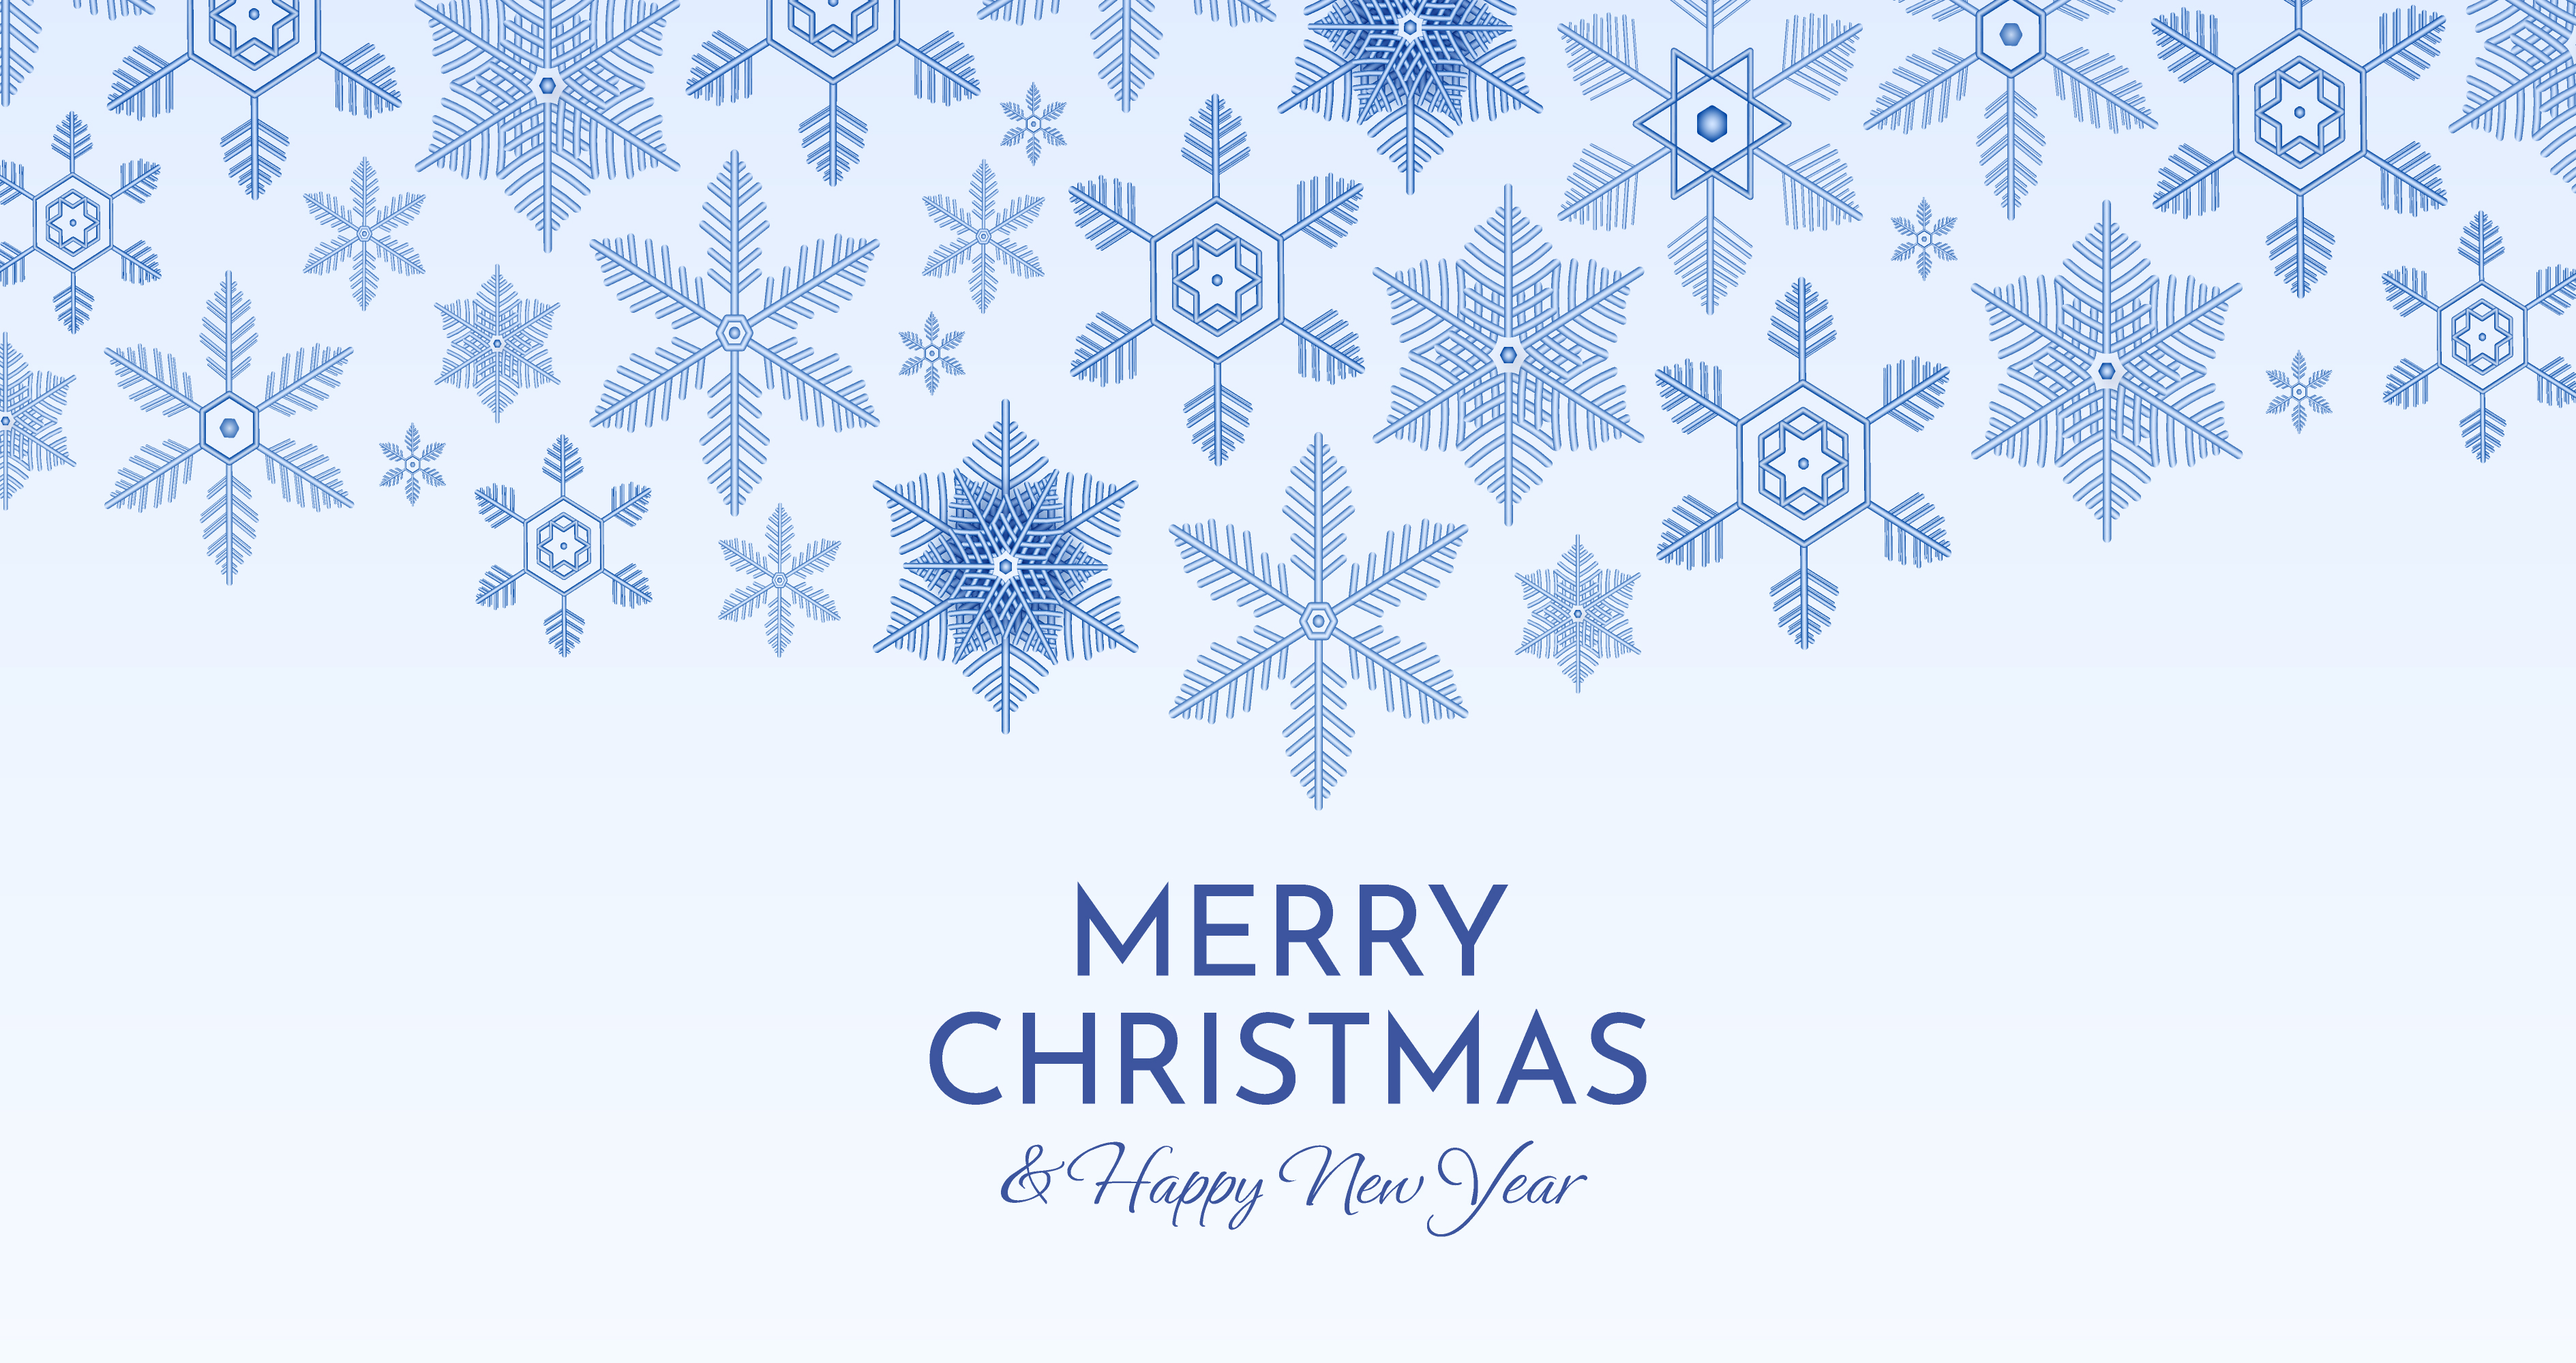
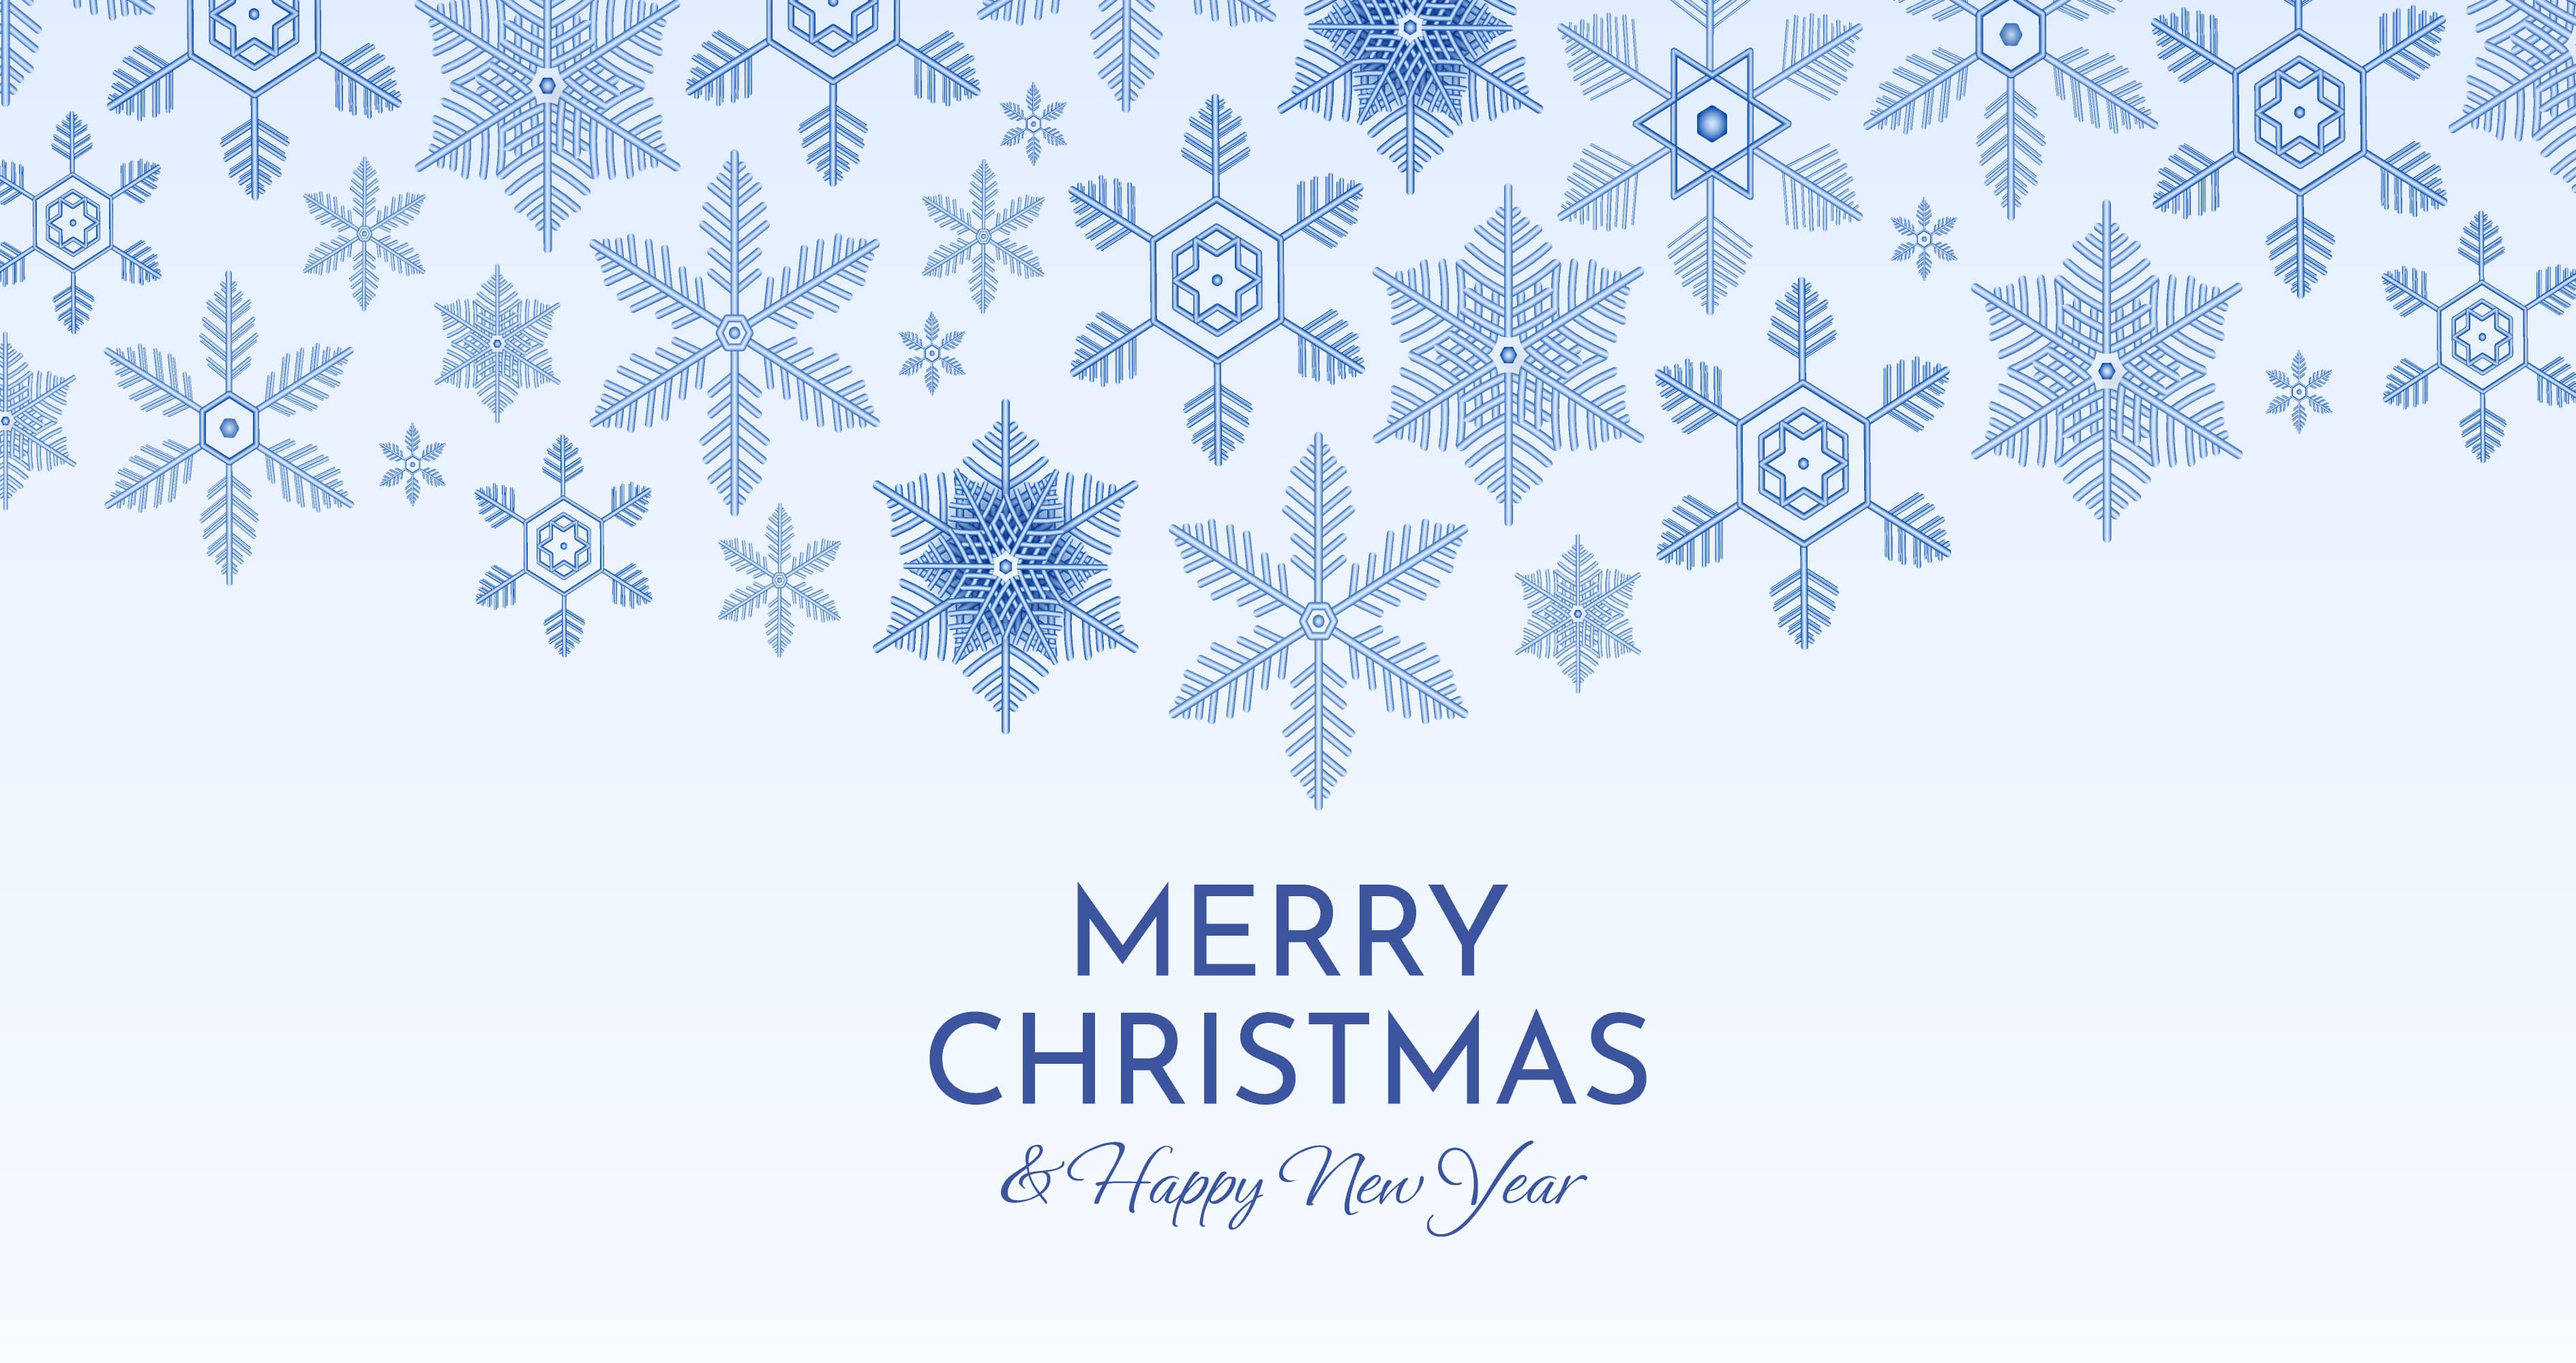
optimize(image): thumbnail image

diff --git a/public/index.html b/public/index.html
@@ -2,7 +2,7 @@
 <html lang="en">
   <head>
     <meta charset="utf-8" />
-    <link rel="icon" href="%PUBLIC_URL%/logoChirstmas.png" />
+    <link rel="icon" href="%PUBLIC_URL%/logoChirstmas.jpg" />
     <meta name="viewport" content="width=device-width, initial-scale=1" />
     <meta name="theme-color" content="#000000" />
     <meta
